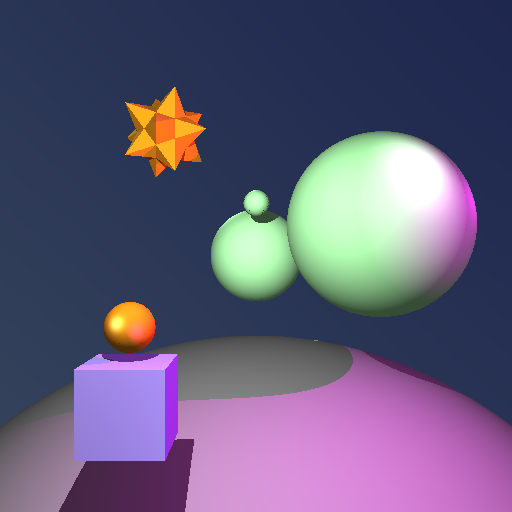
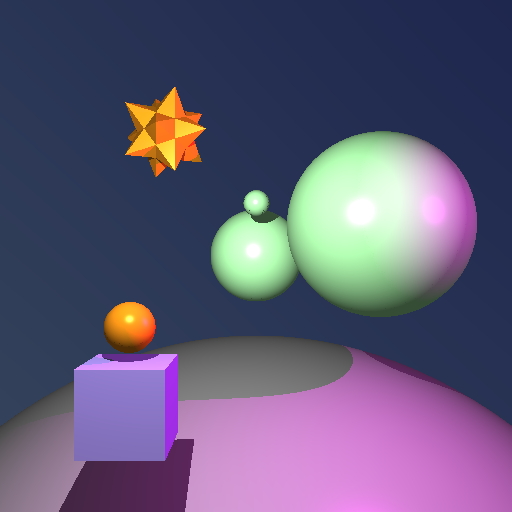
specular fixed.

diff --git a/A4/A4.cpp b/A4/A4.cpp
@@ -7,7 +7,6 @@
 #include <iostream>
 #include <algorithm>
 #include "Material.hpp"
-#include "tbb/parallel_for.h"
 
 
 
@@ -26,13 +25,16 @@ vec3 phongModel(vec3 fragPosition, vec3 fragNormal, const Light& ray, const vec3
 
     // Direction from fragment to viewer (origin - fragPosition).
     // vec3 v = normalize(ray.getOrigin()-fragPosition);
-	vec3 v = normalize(- fragPosition);
+	vec3 v = normalize(eye - fragPosition);
+
 
 	// cout<<"l: "<<l.x<<" "<<l.y<<" "<<l.z<<endl;
 	// cout<<"v: "<<v.x<<" "<<v.y<<" "<<v.z<<endl;
 	// cout<<dot(fragNormal, l)<<endl;
 
     float n_dot_l = std::max(dot(fragNormal, l), 0.0f);
+
+	vec3 R = 2*(dot(fragNormal, -l))*fragNormal+l;
 
 	vec3 diffuse;
 	diffuse = material.diffuse() * n_dot_l;
@@ -42,12 +44,12 @@ vec3 phongModel(vec3 fragPosition, vec3 fragNormal, const Light& ray, const vec3
     if (n_dot_l > 0.0) {
 		// Halfway vector.
 		vec3 h = normalize(v + l);
-        float n_dot_h = std::max(dot(fragNormal, h), 0.0f);
-		cout<<"n_dot_h: "<<dot(fragNormal, l)<<endl;
+        float n_dot_h = std::max(dot(R, v), 0.0f);
+
         specular = material.specular() * pow(n_dot_h, material.shininess());
     }
 	// cout<<"diffuse: "<<diffuse.x<<" "<<diffuse.y<<" "<<diffuse.z<<endl;
-	cout<<"specular: "<<specular.x<<" "<<specular.y<<" "<<specular.z<<endl;
+	// cout<<"specular: "<<specular.x<<" "<<specular.y<<" "<<specular.z<<endl;
     return ray.colour * (diffuse + specular);
 }
 
@@ -175,26 +177,5 @@ void A4_Render(
 			cout<<endl;
 		}
 	}
-
-
-	auto values = std::vector<double>(10000);
-    
-    tbb::parallel_for( tbb::blocked_range<int>(0,values.size()),
-                       [&](tbb::blocked_range<int> r)
-    {
-        for (int i=r.begin(); i<r.end(); ++i)
-        {
-            values[i] = std::sin(i * 0.001);
-        }
-    });
-
-    double t = 0.0;
-
-    for (double value : values)
-    {
-        t += value;
-    }
-
-    std::cout << t << std::endl;
 
 }
